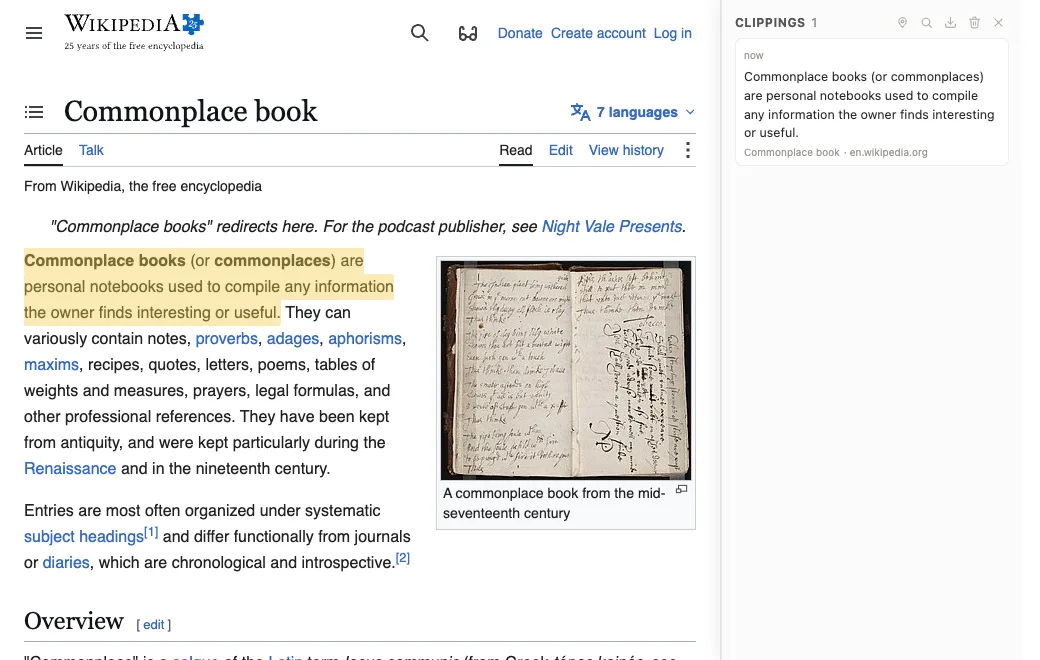
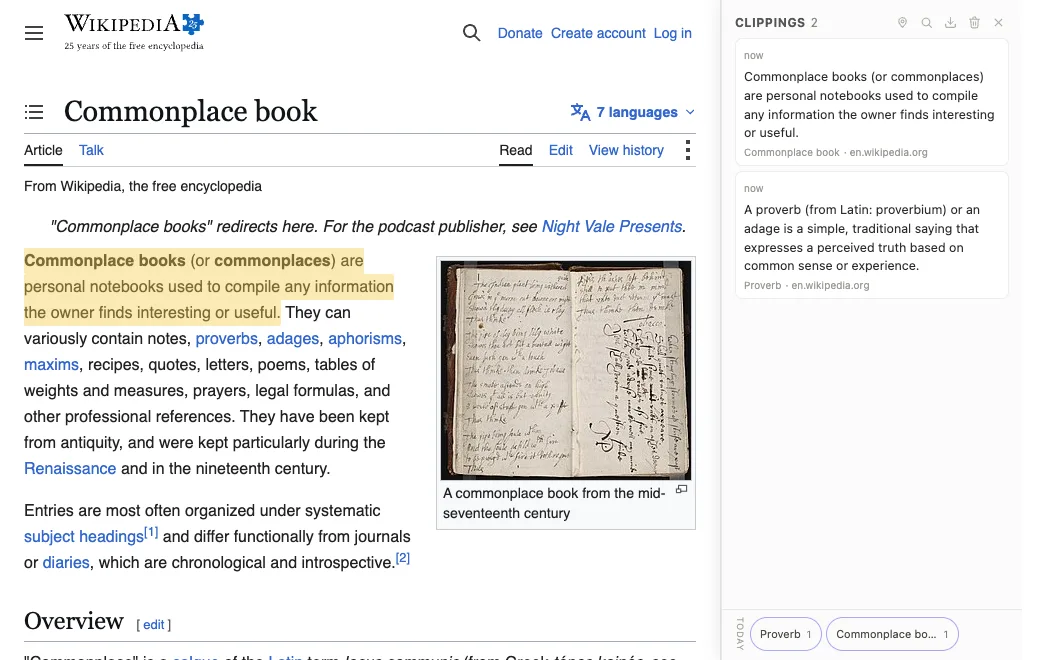
Rewrite the onboarding tutorial, and show the shapes it names (#21)
* Point each step at the shape it names, and repair two theme colours

The instructions name three things on screen — the puzzle piece, the pin,
the drag — and showed none of them. Each is now a symbol defined once and
referenced wherever it appears, so the shape the sentence teaches and the
shape the illustration rings cannot drift apart: the illustration's own
puzzle piece and pin are now `use` of the same two symbols.

The drag is a cursor and the trail behind it because that is what survives
18px, which is what 1.15em of this page's body text rasterizes to. An open
hand loses its fingers at that size and a dragged link chip becomes a blob;
both were drawn and both were rejected against real rasterizer output.

Two colours were fixed to the light theme on a page that declares it renders
in both. The keycap was the visible one — a near-white cap under text that
turns white, leaving Shift unreadable in dark mode. Its surface and edge now
mix out of currentColor, as the rest of the page's surfaces already do, so
the contrast holds by construction rather than against one background. The
refusal message was the quiet one, an amber that drops to about 3.5:1 on a
dark canvas; it needs a hue rather than a tint, so it takes a value per
theme through the color-scheme the sheet already sets.

* Keep the refusal's colour inside the floor the build declares

* Answer a dragged link on the page that cannot preview one

`<all_urls>` covers http, https, file and ftp and does not cover
[…]

Changed region(s): [[0.7077, 0.2727, 0.9538, 0.4545], [0.7077, 0.9394, 0.8923, 0.9697], [0.4, 0.0303, 0.4615, 0.0606]]

diff --git a/public/onboarding.html b/public/onboarding.html
@@ -41,22 +41,36 @@
          leaves out of dist/ — 64 CSS pixels of a 128px source is exact at 2x. */
       .mark { display: block; width: 64px; height: 64px; margin: 0 0 20px; }
 
-      /* The same icon at text size, so a sentence can point at the thing to click instead of
+      /* A shape at text size, so a sentence can point at the thing to press instead of only
          describing it. Sized in em so it tracks whatever text it sits in, and dropped onto the
-         baseline so it sits *in* the line rather than on top of it. */
+         baseline so it sits *in* the line rather than on top of it. Carries both the shipping
+         raster of Piko's own icon and the drawn glyphs below, which is the point: a step that
+         names something on screen shows it at the size the sentence runs at. */
       .inline-icon { width: 1.15em; height: 1.15em; vertical-align: -0.25em; }
+
+      /* The glyph definitions themselves, present in the document but never drawn. Not
+         `display: none`, which has historically stopped `<use>` resolving; a zero box with its
+         overflow hidden takes no space and leaves the references working. */
+      .sprite { position: absolute; width: 0; height: 0; overflow: hidden; }
 
       /* The one key this page asks for. Left to the browser it renders as monospace at a
          smaller size, which reads as code rather than as something to press; this keeps the
-         page's own face and borrows only the outline of a keycap. */
+         page's own face and borrows only the outline of a keycap.
+
+         Both the cap and its edge are mixed out of `currentColor`, which is the only way a
+         surface behind inherited text can be right in both themes at once: a fixed light grey
+         under text that turns white in dark mode leaves the key unreadable, and that is exactly
+         what it did. Deriving the surface from the text means the contrast between them is
+         fixed by construction rather than by a value chosen against one background. Same
+         mechanism as `.site-undo` and `.tryit`. */
       kbd {
         font: inherit;
         font-size: 0.9em;
         padding: 1px 5px;
-        border: 1px solid rgba(0, 0, 0, 0.2);
+        border: 1px solid color-mix(in srgb, currentColor 30%, transparent);
         border-bottom-width: 2px;
         border-radius: 4px;
-        background: #f4f4f6;
+        background: color-mix(in srgb, currentColor 12%, transparent);
       }
 
       button {
@@ -85,7 +99,19 @@
          that message needed; the button carries that now. What is left is the refusal, which runs
          to two lines at this width and so was never the thing the reservation could absorb. */
       .status { margin-top: 1em; font-weight: 600; }
+      /* The refusal is the one colour on this page that cannot be mixed out of `currentColor` —
+         it has to stay amber to mean anything, so it needs a value per theme rather than a tint
+         of the text. The dark half is not the light one lightened by eye: an amber dark enough
+         to carry on white drops to about 3.5:1 on Chrome's dark canvas, under the 4.5:1 that
+         text at this size and weight needs.
+
+         A media query and not `light-dark()`, which says the same thing in one line and needs
+         Chrome 123. The build targets chrome115, and a stylesheet that quietly requires more
+         than the bundle does is a floor raised where nobody would think to look for it. */
       .status[data-state="declined"] { color: #9a5b00; }
+      @media (prefers-color-scheme: dark) {
+        .status[data-state="declined"] { color: #ffb84d; }
+      }
       .fineprint { font-size: 0.9rem; opacity: 0.75; }
       code { font-size: 0.9em; }
 
@@ -154,6 +180,39 @@
     </style>
   </head>
   <body>
+    <!--
+      The shapes the instructions point at, each drawn once and referenced wherever it appears.
+      The illustration in the first step rings the same puzzle piece and pin that the step's own
+      sentence names, because they are literally the same `<symbol>` — so the shape a reader
+      learns from the sentence cannot drift from the shape the picture tells them to hunt for.
+      That is the same argument the row beside it already makes by using the shipping raster of
+      Piko's icon rather than a redrawing of it.
+
+      Drawn in `currentColor` alone, so each takes the colour of the text it lands in and needs
+      no light and dark variant. Marked `aria-hidden` at every use: each one sits beside the very
+      noun it depicts, so a screen reader announcing it would read the word twice.
+
+      Judged at 18px — what 1.15em of this page's body text rasterizes to — and not at the size
+      they are drawn. That is the whole reason the drag is a cursor and a trail: at 18px an open
+      hand loses its fingers and a dragged "link chip" becomes a featureless blob, while a cursor
+      stays unmistakably a cursor and three dashes stay three dashes.
+    -->
+    <svg class="sprite" aria-hidden="true">
+      <symbol id="glyph-puzzle" viewBox="0 0 24 24">
+        <path fill="currentColor"
+              d="M20.5 11H19V7c0-1.1-.9-2-2-2h-4V3.5C13 2.12 11.88 1 10.5 1S8 2.12 8 3.5V5H4c-1.1 0-1.99.9-1.99 2v3.8H3.5c1.49 0 2.7 1.21 2.7 2.7s-1.21 2.7-2.7 2.7H2V20c0 1.1.9 2 2 2h3.8v-1.5c0-1.49 1.21-2.7 2.7-2.7 1.49 0 2.7 1.21 2.7 2.7V22H17c1.1 0 2-.9 2-2v-4h1.5c1.38 0 2.5-1.12 2.5-2.5S21.88 11 20.5 11z" />
+      </symbol>
+      <symbol id="glyph-pin" viewBox="0 0 24 24">
+        <path fill="currentColor"
+              d="M16 9V4h1c.55 0 1-.45 1-1s-.45-1-1-1H7c-.55 0-1 .45-1 1s.45 1 1 1h1v5c0 1.66-1.34 3-3 3v2h5.97v7l1 1 1-1v-7H19v-2c-1.66 0-3-1.34-3-3z" />
+      </symbol>
+      <symbol id="glyph-drag" viewBox="0 0 24 24">
+        <path d="M1.5 13h8" fill="none" stroke="currentColor" stroke-width="2.4"
+              stroke-linecap="round" stroke-dasharray="0.1 3.8" />
+        <path fill="currentColor" d="M11 4l10 7.6-4.5.8 2.7 4.9-2.5 1.4-2.7-5-3 3.1z" />
+      </symbol>
+    </svg>
+
     <img class="mark" src="icons/icon128.png" alt="" width="64" height="64" />
 
     <h1>
@@ -167,12 +226,15 @@
       you open one.
     </p>
 
+    <!-- One sentence in two states, so it says the same thing in the same words whichever half
+         of the pair is showing. "this permission" reads correctly in both: before the grant it
+         names what the button is about to ask for, and after it names what was given. -->
     <p class="before-grant">
-      Chrome will ask you to confirm. Nothing happens until you do. You can take the permission
-      back at any time from <code>chrome://extensions</code>.
+      Chrome will ask you to confirm. Nothing happens until you do. You can revoke this
+      permission any time from <code>chrome://extensions</code>.
     </p>
     <p class="after-grant">
-      You can take that back at any time from <code>chrome://extensions</code>.
+      You can revoke this permission any time from <code>chrome://extensions</code>.
     </p>
 
     <button id="grant">Allow Piko on all sites</button>
@@ -187,25 +249,56 @@
     <div id="sites"></div>
 
     <!-- A reading, not a feature tour. Both surfaces appear here because the sequence needs
-         them, in the order the reading needs them — and the instruction to find the sentence that
-         says what the article is about is the whole product argument in one line: the reader
-         summarises by choosing, which is the thing a generated summary does instead of them.
-         A tour of the same two gestures would teach what Piko does and not what it is for. -->
+         them — and the instruction to find the sentence that says what the article is about is
+         the whole product argument in one line: the reader summarises by choosing, which is the
+         thing a generated summary does instead of them. A tour of the same two gestures would
+         teach what Piko does and not what it is for.
+
+         The drag leads because it is the one gesture that needs nothing set up. Clipping the page
+         you are on needs the toolbar icon, and the icon needs pinning, so opening with the pin
+         puts two steps of housekeeping between the reader and anything worth seeing. A dragged
+         link works the moment access is granted. Leading with it makes the shortest path from
+         this page to Piko doing something, and leaves pinning to be asked for at the point it is
+         actually needed — which is also the point where the reader has a reason to want it. -->
     <h2>Try it</h2>
     <div class="tryit">
       <p>
-        Reading is easy with Piko! Piko is a type of commonplace book (a personal notebook) in
-        your browser. Let's use its
+        Reading is easy with Piko! Piko is a scrapbook that works in your browser. Click on
         <a href="https://en.wikipedia.org/wiki/Commonplace_book" target="_blank" rel="noreferrer"
-          >Wikipedia page</a
+          >this Wikipedia page</a
         >
-        as an example of how to engage yourself while reading:
+        and let me teach you how to use Piko!
       </p>
       <ol>
         <li>
-          Pin Piko to your toolbar. Click the puzzle piece at the right of the address bar, then
-          the pin beside Piko. Chrome hides new extensions behind that menu, and every step from
-          here starts by pressing Piko's icon.
+          <svg class="inline-icon" aria-hidden="true"><use href="#glyph-drag" /></svg> On the
+          Wikipedia page, try dragging a link to activate Piko's preview mode!
+        </li>
+        <li>
+          In the preview, try hovering your mouse over each sentence as you read. When you find
+          the sentence that summarizes the article, click on that sentence to clip it!
+          <details>
+            <summary>What a dragged article looks like</summary>
+            <img class="shot" src="shots/preview.webp" width="1040" height="660"
+                 alt="The dragged article open in reader mode over the page it was dragged from,
+                      its opening sentence highlighted, and Piko's journal beside it holding that
+                      sentence." />
+          </details>
+        </li>
+        <li>If you want to group multiple sentences, try <kbd>Shift</kbd> click!</li>
+        <!-- All three are named because all three are wired to the same dismissal, and a reader
+             who reaches for the one they already expect should not find it missing. `mountPanel`
+             is where that is true: the close button, the backdrop and the Escape key all send
+             `Dismissed`. -->
+        <li>Press <kbd>Esc</kbd>, the red ✕, or the background of the preview to go back to the
+          main page.</li>
+        <li>
+          You can clip sentences on the main page too! Click the
+          <svg class="inline-icon" aria-hidden="true"><use href="#glyph-puzzle" /></svg> puzzle
+          piece icon on your browser, then
+          <svg class="inline-icon" aria-hidden="true"><use href="#glyph-pin" /></svg> pin the
+          Piko extension. Try clicking on
+          <img class="inline-icon" src="icons/icon128.png" alt="" /> Piko!
           <!-- Folded, so a step reads as one instruction and the picture is there for whoever
                wants it. Open by default would make the list a gallery to scroll past rather than
                a sequence to follow.
@@ -234,8 +327,7 @@
             <!-- the puzzle piece, which is the button to press -->
             <circle cx="288" cy="28" r="17" fill="#3d5afe" fill-opacity="0.14"
                     stroke="#3d5afe" stroke-width="2" />
-            <path transform="translate(276 16)" fill="currentColor" fill-opacity="0.85"
-                  d="M20.5 11H19V7c0-1.1-.9-2-2-2h-4V3.5C13 2.12 11.88 1 10.5 1S8 2.12 8 3.5V5H4c-1.1 0-1.99.9-1.99 2v3.8H3.5c1.49 0 2.7 1.21 2.7 2.7s-1.21 2.7-2.7 2.7H2V20c0 1.1.9 2 2 2h3.8v-1.5c0-1.49 1.21-2.7 2.7-2.7 1.49 0 2.7 1.21 2.7 2.7V22H17c1.1 0 2-.9 2-2v-4h1.5c1.38 0 2.5-1.12 2.5-2.5S21.88 11 20.5 11z" />
+            <use href="#glyph-puzzle" x="276" y="16" width="24" height="24" fill-opacity="0.85" />
 
             <path d="M288 50v14" stroke="#3d5afe" stroke-width="2" stroke-dasharray="3 3" />
             <path d="M288 70l-5-8h10z" fill="#3d5afe" />
@@ -250,55 +342,28 @@
             <!-- the pin, which is the thing to click -->
             <rect x="322" y="108" width="28" height="28" rx="9" fill="#3d5afe" fill-opacity="0.14"
                   stroke="#3d5afe" stroke-width="2" />
-            <path transform="translate(327 113) scale(0.75)" fill="currentColor" fill-opacity="0.85"
-                  d="M16 9V4h1c.55 0 1-.45 1-1s-.45-1-1-1H7c-.55 0-1 .45-1 1s.45 1 1 1h1v5c0 1.66-1.34 3-3 3v2h5.97v7l1 1 1-1v-7H19v-2c-1.66 0-3-1.34-3-3z" />
+            <use href="#glyph-pin" x="327" y="113" width="18" height="18" fill-opacity="0.85" />
           </svg>
           </details>
         </li>
-        <li>Press <img class="inline-icon" src="icons/icon128.png" alt="the Piko icon" /> in your
-          toolbar. The journal docks on the right, and the page becomes clippable.</li>
         <li>
-          Read until you find the one sentence that says what the article is <em>about</em>.
-          Click it. That sentence is now the article, in your journal. If the thought carries
-          on into the sentence beside it, <kbd>Shift</kbd>-click that one and the note grows to
-          hold both, as one clipping.
+          Finally, try clipping a sentence on the main page!
           <details>
             <summary>What the docked journal and a kept sentence look like</summary>
             <img class="shot" src="shots/armed.webp" width="1040" height="660"
                  alt="The Commonplace book article with its opening sentence highlighted, and
-                      Piko's journal docked to the right of the page holding that sentence." />
+                      Piko's journal docked to the right of the page, now holding that sentence
+                      and the one kept from the dragged article." />
           </details>
         </li>
-        <li>Keep going. When a link matters to what you just kept, drag it a short distance and
-          let go. That article opens in place, in reader mode, with your journal still beside
-          it.</li>
-        <li>
-          Find its one sentence too, and click that. Escape brings you back.
-          <details>
-            <summary>What a dragged article looks like</summary>
-            <img class="shot" src="shots/preview.webp" width="1040" height="660"
-                 alt="The dragged article open in reader mode over the page it was dragged from,
-                      its opening sentence highlighted, and the journal beside it now holding two
-                      sentences from two sources." />
-          </details>
-        </li>
-      </ol>
-      <p>
-        You end up with the article in the sentences you chose, and a line from each link that
-        mattered. Piko will not choose them for you. Choosing is the reading.
-      </p>
-      <p class="fineprint">A few things that might surprise you along the way:</p>
-      <ol class="fineprint">
-        <li>Dragging a link puts the page's own clipping away. Press Piko's icon again whenever
-          you want it back.</li>
-        <li>The drag has to happen on the Wikipedia page, not on this one. Piko does not run on
-          its own pages.</li>
-        <li>A tab you already had open before allowing Piko needs a reload first. Piko can only
-          get into a page while that page is loading.</li>
       </ol>
     </div>
 
-    <h2>What Piko does with it</h2>
+    <!-- Names the permission in the same words the heading at the top of the page uses, rather
+         than as `<all_urls>`. "it" was the button, and by this far down the page the button is
+         well out of sight — a heading that depends on a pronoun reaching that far is a heading
+         about nothing for anyone who arrived here by scrolling. -->
+    <h2>What Piko does with access to the pages you read</h2>
     <ul>
       <li>Notices a dragged link and fetches that page, so it can show you the article in reader
         mode.</li>
@@ -307,7 +372,7 @@
       <li>Saves a sentence to your journal when you click it. That journal stays on this device.</li>
     </ul>
 
-    <h2>What it will not do</h2>
+    <h2>What Piko will not do</h2>
     <ul>
       <li>Run on webmail, password managers, chat, or sign-in pages. Chrome blocks Piko there. It
         is not Piko policing itself.</li>

diff --git a/shots/capture.shots.ts b/shots/capture.shots.ts
@@ -53,19 +53,35 @@ it('captures the two pictures the onboarding page shows of Piko working', async 
   try {
     const page = await context.newPage()
     await page.setViewportSize(VIEWPORT)
+
+    /*
+     * Wikipedia's fundraising banner, kept out of the picture.
+     *
+     * CentralNotice arrives asynchronously and, while a campaign is running, covers the article
+     * with a donation form — which turns a picture of Piko reading an article into a picture of
+     * a donation form with Piko beside it. It is seasonal, so whether these shots carry it
+     * depends on nothing but the day they were last regenerated, and a reader who is signed in
+     * or has dismissed it once sees an article where the capture would have shipped an appeal.
+     *
+     * Blocked at the request, so the banner never exists, rather than hidden afterwards by a
+     * style this page would not otherwise have: what is photographed is a state Wikipedia really
+     * renders. Its modules are batched into one ResourceLoader request of their own, so aborting
+     * that request takes nothing else with it.
+     */
+    await page.route(/ext\.centralNotice/, (route) => route.abort())
+
     await page.goto(ARTICLE)
 
-    // A journal with something in it, because an empty one is a picture of an empty box. The
-    // sentence is clipped through the same click a reader makes, so the mark in the shot is a
-    // real mark rather than a state set from script.
-    await armClipping(page)
-    await clipSentenceIn(page, '#mw-content-text p')
-    await settle(page)
-    await write(page, 'armed.webp')
-
-    // A drag wins over host clipping, so this arrives in the preview with the rail already put
-    // away — exactly the sequence the onboarding steps walk through. `href*=` and not `^=`:
-    // Wikipedia serves protocol-relative links, so every one of them starts `//en.wikipedia.org`.
+    // The drag first, because that is the order the steps walk through and the order decides
+    // what is in the journal. This shot is taken before the page itself has been clipped, so the
+    // journal beside the preview holds exactly the one sentence just kept from the dragged
+    // article — which is what the step this picture sits under has asked the reader to do, and
+    // no more. A journal with something in it either way, because an empty one is a picture of
+    // an empty box, and the sentence is clipped through the same click a reader makes, so the
+    // mark in the shot is a real mark rather than a state set from script.
+    //
+    // `href*=` and not `^=`: Wikipedia serves protocol-relative links, so every one of them
+    // starts `//en.wikipedia.org`.
     const link = page.locator('#mw-content-text p a[href*="/wiki/"]').first()
     await link.scrollIntoViewIfNeeded()
     await dragElement(page, link)
@@ -80,6 +96,15 @@ it('captures the two pictures the onboarding page shows of Piko working', async 
     await clipSentenceIn(page, `${SHADOW}.querySelector('.piko-article p')`, true)
     await settle(page)
     await write(page, 'preview.webp')
+
+    // Escape puts the preview away and leaves the page it was dragged from, which is where the
+    // rest of the sequence happens. The journal holds two sentences from two sources by the time
+    // this one is taken, and the step it sits under is the one that just added the second.
+    await page.keyboard.press('Escape')
+    await armClipping(page)
+    await clipSentenceIn(page, '#mw-content-text p')
+    await settle(page)
+    await write(page, 'armed.webp')
   } finally {
     await context.close()
   }

diff --git a/e2e/harness.ts b/e2e/harness.ts
@@ -91,8 +91,19 @@ export function buildTestExtension(): string {
  * picture of something no reader can reproduce.
  */
 export async function dragElement(page: Page, link: Locator): Promise<void> {
-  const box = await link.boundingBox()
-  if (!box) throw new Error(`nothing to drag at ${link}`)
+  /*
+   * The first client rect, and not the bounding box. They are the same rectangle for a link that
+   * fits on one line, and for a link that wraps they are very different: the bounding box is the
+   * union of both line fragments, so its centre can fall in the gap between the lines or onto the
+   * prose beside them. The mouse then presses something that is not the link, no `dragstart` ever
+   * fires, and the failure is indistinguishable from a listener that was never attached — which
+   * is a long way to travel for a link that grew one word too long.
+   */
+  const box = await link.evaluate((element) => {
+    const rect = element.getClientRects()[0]
+    return rect ? { x: rect.x, y: rect.y, width: rect.width, height: rect.height } : null
+  })
+  if (!box || box.width === 0 || box.height === 0) throw new Error(`nothing to drag at ${link}`)
 
   const fromX = box.x + box.width / 2
   const fromY = box.y + box.height / 2

diff --git a/src/onboarding/siteList.ts b/src/onboarding/siteList.ts
@@ -61,10 +61,13 @@ export function renderSiteList(rows: readonly SiteRow[], letBackOn: (host: strin
   if (reader.length === 0) {
     const empty = document.createElement('p')
     empty.className = 'sites-empty'
+    // The menu item is quoted the way `siteMenu.ts` writes it, host and all, so what the reader
+    // is told to look for is what the menu will say. `siteMenu.test.ts` is what holds that
+    // wording still; a rename there is a rename here.
     empty.append(
       'You have not turned Piko off anywhere yet. To do that, right-click ',
       toolbarIcon(),
-      ' in your toolbar while you are on the site.',
+      ' in your toolbar while you are on the site. Then, select "Never run Piko on …".',
     )
     fragment.append(empty)
   } else {
